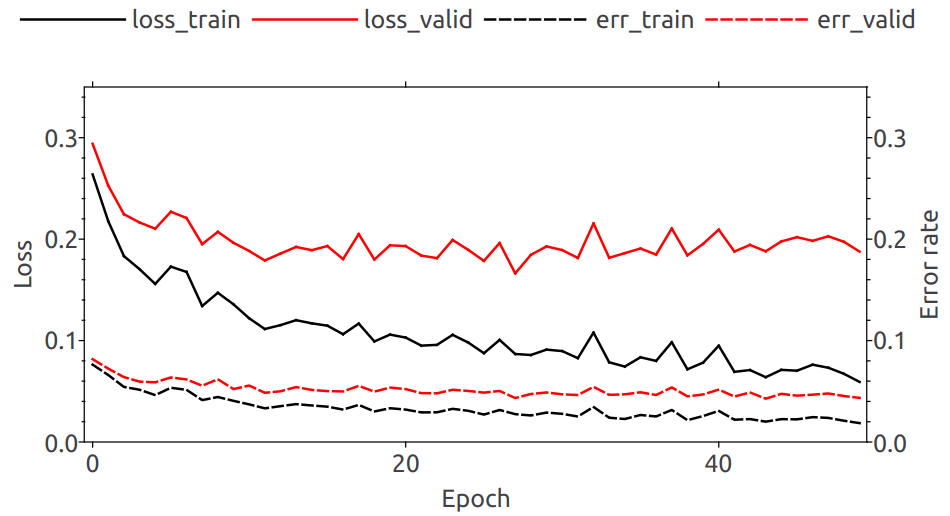
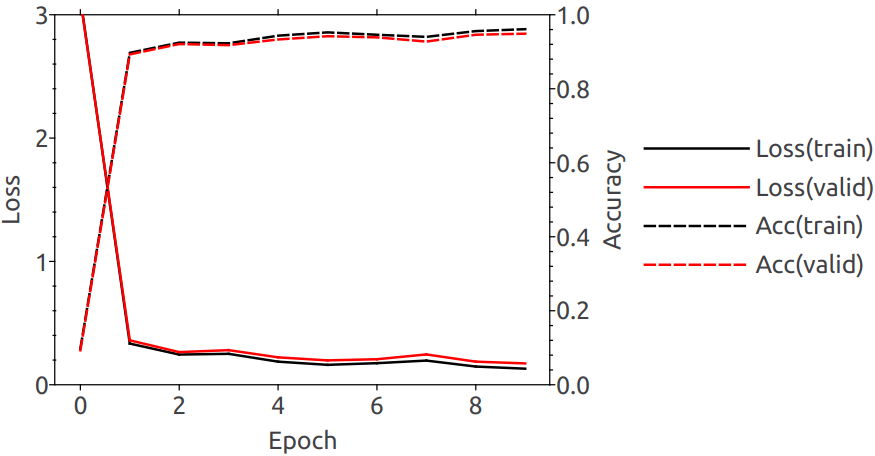
Update examples

diff --git a/examples/Core/AI/Mnist.cpp b/examples/Core/AI/Mnist.cpp
@@ -117,7 +117,7 @@ using Dataset = typename Mnist::DatasetType<Vector<PlainScalar>>;
 using Optimizer = MomentumSGD<ScalarType>;
 using RandomGenerator = std::mt19937;
 using RandomPoolType = RandomPool<RandomGenerator>;
-constexpr size_t numEpoch = 50;
+constexpr size_t numEpoch = 10;
 constexpr size_t batchSize = 64;
 constexpr double momentum = 0.5;
 constexpr double learnRate = 0.05;
@@ -143,21 +143,24 @@ int main(int argc, char** argv) {
     auto nn = MnistNet<ScalarType>(32, gen);
     opt.recordEnd();
 
-    Vector<PlainScalar> loss_train(numEpoch), loss_valid(numEpoch), err_train(numEpoch), err_valid(numEpoch);
+    Vector<PlainScalar> loss_train(numEpoch), loss_valid(numEpoch), acc_train(numEpoch), acc_valid(numEpoch);
     for (size_t epoch = 0; epoch < numEpoch; ++epoch) {
-        for (size_t i = 0; i < itePerEpoch; ++i)
-            nn.train_step<Dataset, Optimizer, RandomPoolType, ThreadExecutor>(dataset.first, opt);
+        if (epoch != 0) {
+            for (size_t i = 0; i < itePerEpoch; ++i)
+                nn.train_step<Dataset, Optimizer, RandomPoolType, ThreadExecutor>(dataset.first, opt);
+        }
+
         const auto nn_infer = MnistNet<PlainScalar>(nn);
         loss_train[epoch] = nn_infer.loss(dataset.first);
         loss_valid[epoch] = nn_infer.loss(dataset.second);
-        err_train[epoch] = PlainScalar(1) - nn_infer.calcAccuracy(dataset.first);
-        err_valid[epoch] = PlainScalar(1) - nn_infer.calcAccuracy(dataset.second);
+        acc_train[epoch] = nn_infer.calcAccuracy(dataset.first);
+        acc_valid[epoch] = nn_infer.calcAccuracy(dataset.second);
     }
 
     QApplication app(argc, argv);
-    Plot* plot = new Plot(-0.5, numEpoch - 0.5, 0, 0.35, 20, 0.1);
+    Plot* plot = new Plot(-0.5, numEpoch - 0.5, 0, 3, 2, 1);
     auto* legend = plot->getChart()->legend();
-    legend->setAlignment(Qt::AlignTop);
+    legend->setAlignment(Qt::AlignRight);
     legend->setMarkerShape(QLegend::MarkerShapeFromSeries);
     auto* axisX = plot->getAxisX();
     auto* axisY = plot->getAxisY();
@@ -165,41 +168,43 @@ int main(int argc, char** argv) {
     axisX->setTitleText("Epoch");
     axisX->setLabelFormat("%d");
     axisY->setTitleText("Loss");
-    axisY->setLabelFormat("%.1f");
-    axisRight->setTitleText("Error rate");
+    axisY->setLabelFormat("%d");
+    axisRight->setTitleText("Accuracy");
     axisRight->setLabelsVisible(true);
     axisRight->setLabelFormat("%.1f");
+    axisRight->setRange(0, 1);
+    axisRight->setTickInterval(0.2);
     {
         auto& line = plot->line(loss_train);
         auto pen = line.pen();
         pen.setColor(Qt::black);
         line.setPen(pen);
-        line.setName("loss_train");
+        line.setName("Loss(train)");
     }
     {
         auto& line = plot->line(loss_valid);
         auto pen = line.pen();
         pen.setColor(Qt::red);
         line.setPen(pen);
-        line.setName("loss_valid");
+        line.setName("Loss(valid)");
     }
     {
-        auto& line = plot->line(err_train);
+        auto& line = plot->line(acc_train);
         auto pen = line.pen();
         pen.setColor(Qt::black);
         pen.setStyle(Qt::DashLine);
         line.setPen(pen);
-        line.setName("err_train");
+        line.setName("Acc(train)");
         line.detachAxis(axisY);
         line.attachAxis(axisRight);
     }
     {
-        auto& line = plot->line(err_valid);
+        auto& line = plot->line(acc_valid);
         auto pen = line.pen();
         pen.setColor(Qt::red);
         pen.setStyle(Qt::DashLine);
         line.setPen(pen);
-        line.setName("err_valid");
+        line.setName("Acc(valid)");
         line.detachAxis(axisY);
         line.attachAxis(axisRight);
     }
